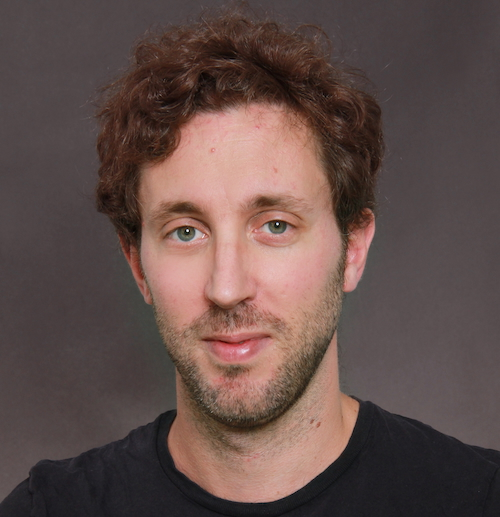
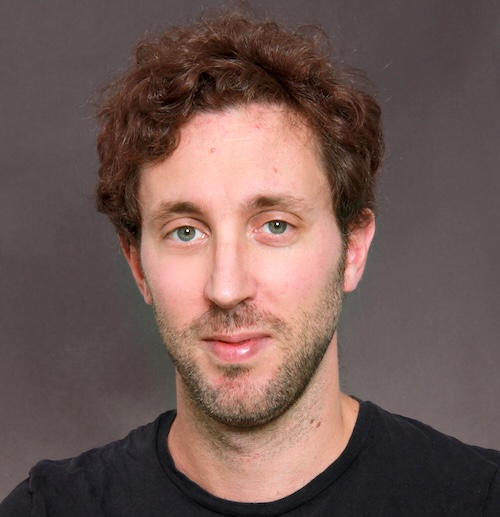
fixed image

Changed region(s): [[0.27, 0.1857, 0.75, 0.8046], [0.33, 0.6499, 0.72, 0.9903]]

diff --git a/_sass/components/header.sass b/_sass/components/header.sass
@@ -6,8 +6,8 @@
     z-index: 99
 
     > .link > .selfie
-        width: 200px
-        height: 200px
+        width: 180px
+        height: 180px
         margin-bottom: 25px
         border-radius: 100%
         transition: all .2s
